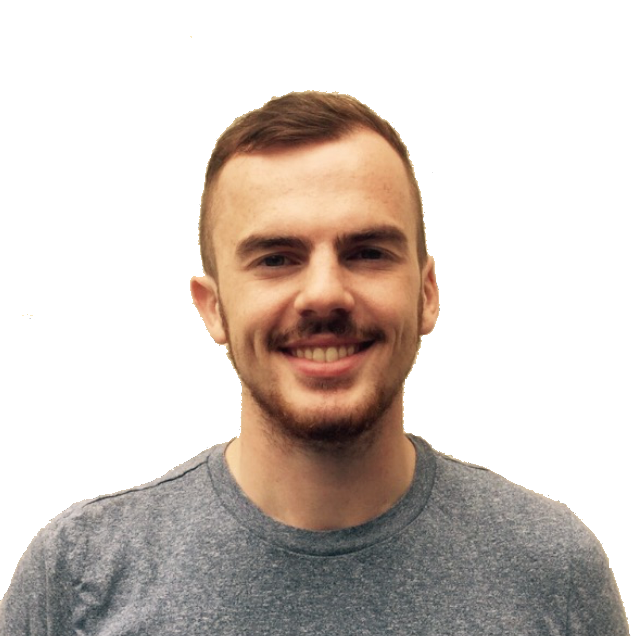
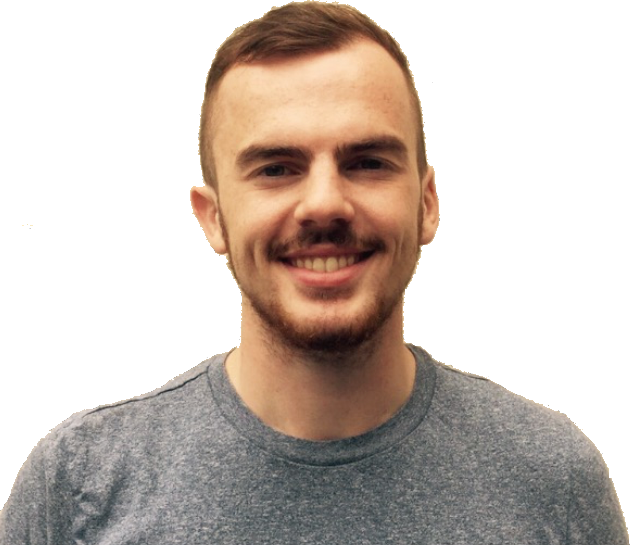
more responsive #5

diff --git a/index.css b/index.css
@@ -1,28 +1,16 @@
 body {
   background-color: white;
+  margin: 0 10vw;
 }
 
 h1, h2, h3, h4, p, ul {
-  text-align: center;
   font-family: 'Ubuntu', sans-serif, Helvetica; /* google font */
   color: black;
-  font-size: 2em;
+  font-size: 2.4vh;
 }
 
-h2 {
-  font-size: 1.5em
-}
-
-h3 {
-  font-size: 1.2em;
-}
-
-h4 {
-  font-size: 1.1em;
-}
-
-p, ul, li {
-  font-size: 1em;
+h1 {
+  font-size: 6vh;
 }
 
 ul {
@@ -31,42 +19,81 @@ ul {
   margin:0;
   }
 
-.col-1-3 {
-  width: 33.33%;
-  float: left;
+.content {
+  padding: 0 1vw;
 }
+
+/*===============
+HEADING SECTION
+===============*/
 
 .heading {
-  padding: 0 15%;
+  text-align: left;
 }
 
-.projects {
-  padding-top: 2em;
-}
+  .heading-title h1 {
+    margin: 2vh 0 0 0;
+  }
 
-iframe {
-  border: 2px solid #CCCCCC;
-}
+  .heading-title img {
+    max-height: 16vh;
+  }
+
+/*===============
+CONTACT SECTION
+===============*/
 
 .contact {
   clear: both;
-  padding-top: 2em;
 }
 
 .sm-hide {
   display: none;
 }
 
+/*===============
+PROJECT SECTION
+===============*/
+
+.projects {
+  /*padding-top: 2em;*/
+  text-align: center;
+}
+
+  .projects-title {
+    font-size: 4vh;
+  }
+
+  .projects h4 {
+    margin-top: 3vh;
+    margin-bottom: 0px;
+  }
+
+  .project.col-1-3 {
+    margin-bottom: 3vh;
+  }
+
+    .project img {
+      border: 2px solid #CCCCCC;
+      max-height: 250px;
+    }
 
 /*LARGE MOBILE, TABLET */
 @media (min-width:480px) {
 
+  .project img {
+    max-height: 300px;
+  }
 
 }
 
 /* Change to three columns now and switch position of CTA */
 @media (min-width:1025px) {
 
+  .col-1-3 {
+    width: 33.33%;
+    float: left;
+  }
   .sm-hide {
     display: block;
   }

diff --git a/index.html b/index.html
@@ -10,7 +10,7 @@
   <body>
     <div class="content">
       <div class="heading">
-        <h1 class="heading-title">Huw Davies</h1>
+        <div class="heading-title"><h1>Huw Davies</h1><img src="img/huw.png" alt=""></div>
         <h3 class="heading-tagline">Full stack JavaScript developer</h3>
 
         <p>I write in Node JS, HTML &amp; CSS. I'm faster when I use Hapi, React &amp; Sass.</p>
